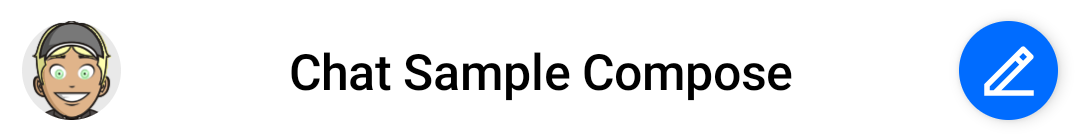
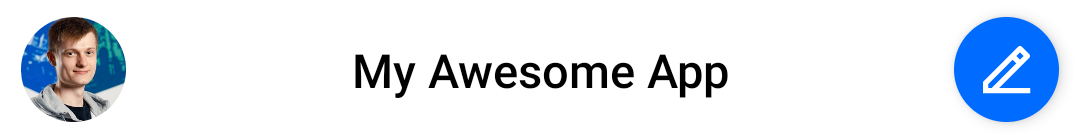
[2818] Update ChannelListHeader docs (#2828)

diff --git a/stream-chat-android-compose/src/main/java/io/getstream/chat/android/compose/ui/channels/header/ChannelListHeader.kt b/stream-chat-android-compose/src/main/java/io/getstream/chat/android/compose/ui/channels/header/ChannelListHeader.kt
@@ -23,9 +23,11 @@ import androidx.compose.ui.draw.shadow
 import androidx.compose.ui.graphics.Color
 import androidx.compose.ui.res.painterResource
 import androidx.compose.ui.res.stringResource
+import androidx.compose.ui.tooling.preview.Preview
 import androidx.compose.ui.unit.dp
 import io.getstream.chat.android.client.models.User
 import io.getstream.chat.android.compose.R
+import io.getstream.chat.android.compose.previewdata.PreviewUserData
 import io.getstream.chat.android.compose.ui.components.NetworkLoadingIndicator
 import io.getstream.chat.android.compose.ui.components.avatar.UserAvatar
 import io.getstream.chat.android.compose.ui.theme.ChatTheme
@@ -59,19 +61,20 @@ public fun ChannelListHeader(
     onHeaderActionClick: () -> Unit = {},
     leadingContent: @Composable RowScope.() -> Unit = {
         DefaultChannelHeaderLeadingContent(
-            currentUser,
-            onAvatarClick
+            currentUser = currentUser,
+            onAvatarClick = onAvatarClick
         )
     },
     centerContent: @Composable RowScope.() -> Unit = {
         DefaultChannelListHeaderCenterContent(
-            modifier = Modifier.weight(1f),
             connectionState = connectionState,
             title = title
         )
     },
     trailingContent: @Composable RowScope.() -> Unit = {
-        DefaultChannelListHeaderTrailingContent(onHeaderActionClick)
+        DefaultChannelListHeaderTrailingContent(
+            onHeaderActionClick = onHeaderActionClick
+        )
     },
 ) {
     Surface(
@@ -86,7 +89,6 @@ public fun ChannelListHeader(
                 .padding(8.dp),
             verticalAlignment = Alignment.CenterVertically,
         ) {
-
             leadingContent()
 
             centerContent()
@@ -127,17 +129,16 @@ internal fun DefaultChannelHeaderLeadingContent(
  *
  * @param connectionState The state of WebSocket connection.
  * @param title The title to show.
- * @param modifier Modifier for styling.
  */
 @Composable
-internal fun DefaultChannelListHeaderCenterContent(
+internal fun RowScope.DefaultChannelListHeaderCenterContent(
     connectionState: ConnectionState,
     title: String,
-    modifier: Modifier = Modifier,
 ) {
     if (connectionState == ConnectionState.CONNECTED) {
         Text(
-            modifier = modifier
+            modifier = Modifier
+                .weight(1f)
                 .wrapContentWidth()
                 .padding(horizontal = 16.dp),
             text = title,
@@ -146,7 +147,7 @@ internal fun DefaultChannelListHeaderCenterContent(
             color = ChatTheme.colors.textHighEmphasis
         )
     } else {
-        NetworkLoadingIndicator(modifier = modifier)
+        NetworkLoadingIndicator(modifier = Modifier.weight(1f))
     }
 }
 
@@ -154,16 +155,14 @@ internal fun DefaultChannelListHeaderCenterContent(
  * Represents the default trailing content for the [ChannelListHeader], which is an action icon.
  *
  * @param onHeaderActionClick Handler for when the user taps on the action.
- * @param modifier Modifier for styling.
  */
 @OptIn(ExperimentalMaterialApi::class)
 @Composable
 internal fun DefaultChannelListHeaderTrailingContent(
     onHeaderActionClick: () -> Unit,
-    modifier: Modifier = Modifier,
 ) {
     Surface(
-        modifier = modifier
+        modifier = Modifier
             .size(40.dp)
             .shadow(4.dp, shape = CircleShape, clip = true),
         onClick = onHeaderActionClick,
@@ -176,6 +175,50 @@ internal fun DefaultChannelListHeaderTrailingContent(
             painter = painterResource(id = R.drawable.stream_compose_ic_new_chat),
             contentDescription = stringResource(id = R.string.stream_compose_channel_list_header_new_chat),
             tint = Color.White,
+        )
+    }
+}
+
+/**
+ * Preview of [ChannelListHeader] for the client that is connected to the WS.
+ *
+ * Should show a user avatar, a title, and an action button.
+ */
+@Preview(name = "ChannelListHeader Preview (Connected state)")
+@Composable
+private fun ChannelListHeaderForConnectedStatePreview() {
+    ChannelListHeaderPreview(connectionState = ConnectionState.CONNECTED)
+}
+
+/**
+ * Preview of [ChannelListHeader] for the client that is trying to connect to the WS.
+ *
+ * Should show a user avatar, "Waiting for network" caption, and an action button.
+ */
+@Preview(name = "ChannelListHeader Preview (Connecting state)")
+@Composable
+private fun ChannelListHeaderForConnectingStatePreview() {
+    ChannelListHeaderPreview(connectionState = ConnectionState.CONNECTING)
+}
+
+/**
+ * Shows [ChannelListHeader] preview for the provided parameters.
+ *
+ * @param title The title used to show the preview.
+ * @param currentUser The currently logged in user.
+ * @param connectionState The state of WS connection.
+ */
+@Composable
+private fun ChannelListHeaderPreview(
+    title: String = "Stream Chat",
+    currentUser: User? = PreviewUserData.user1,
+    connectionState: ConnectionState = ConnectionState.CONNECTED,
+) {
+    ChatTheme {
+        ChannelListHeader(
+            title = title,
+            currentUser = currentUser,
+            connectionState = connectionState
         )
     }
 }

diff --git a/stream-chat-android-compose-sample/src/main/java/io/getstream/chat/android/compose/sample/ChannelActivity.kt b/stream-chat-android-compose-sample/src/main/java/io/getstream/chat/android/compose/sample/ChannelActivity.kt
@@ -20,6 +20,7 @@ import androidx.compose.foundation.layout.wrapContentHeight
 import androidx.compose.foundation.layout.wrapContentWidth
 import androidx.compose.foundation.shape.RoundedCornerShape
 import androidx.compose.material.ExperimentalMaterialApi
+import androidx.compose.material.Scaffold
 import androidx.compose.material.Text
 import androidx.compose.runtime.Composable
 import androidx.compose.runtime.collectAsState
@@ -28,7 +29,6 @@ import androidx.compose.runtime.mutableStateOf
 import androidx.compose.runtime.remember
 import androidx.compose.runtime.setValue
 import androidx.compose.ui.Alignment
-import androidx.compose.ui.Alignment.Companion.CenterHorizontally
 import androidx.compose.ui.Modifier
 import androidx.compose.ui.res.stringResource
 import androidx.compose.ui.unit.dp
@@ -102,13 +102,17 @@ class ChannelActivity : AppCompatActivity() {
     private fun MyCustomUiSimplified() {
         val user by ChatDomain.instance().user.collectAsState()
 
-        Column(modifier = Modifier.fillMaxSize()) {
-            ChannelListHeader(
-                title = stringResource(id = R.string.app_name),
-                currentUser = user
-            )
-
+        Scaffold(
+            modifier = Modifier.fillMaxSize(),
+            topBar = {
+                ChannelListHeader(
+                    title = stringResource(id = R.string.app_name),
+                    currentUser = user
+                )
+            }
+        ) {
             ChannelList(
+                modifier = Modifier.fillMaxSize(),
                 itemContent = {
                     CustomChannelListItem(channelItem = it, user = user)
                 },
@@ -117,10 +121,9 @@ class ChannelActivity : AppCompatActivity() {
                         modifier = Modifier
                             .fillMaxWidth(0.5f)
                             .height(0.5.dp)
-                            .align(CenterHorizontally)
                             .background(color = ChatTheme.colors.textLowEmphasis)
                     )
-                },
+                }
             )
         }
     }
@@ -193,8 +196,8 @@ class ChannelActivity : AppCompatActivity() {
                 )
             }
 
-            val currentSelectedChannel = selectedChannel
-            if (currentSelectedChannel != null) {
+            val selectedChannel = selectedChannel
+            if (selectedChannel != null) {
                 ChannelInfo(
                     modifier = Modifier
                         .padding(16.dp)
@@ -202,8 +205,8 @@ class ChannelActivity : AppCompatActivity() {
                         .wrapContentHeight()
                         .align(Alignment.Center),
                     shape = RoundedCornerShape(16.dp),
-                    isMuted = listViewModel.isChannelMuted(currentSelectedChannel.cid),
-                    selectedChannel = currentSelectedChannel,
+                    isMuted = listViewModel.isChannelMuted(selectedChannel.cid),
+                    selectedChannel = selectedChannel,
                     currentUser = user,
                     onChannelOptionClick = { action -> listViewModel.performChannelAction(action) }
                 )
